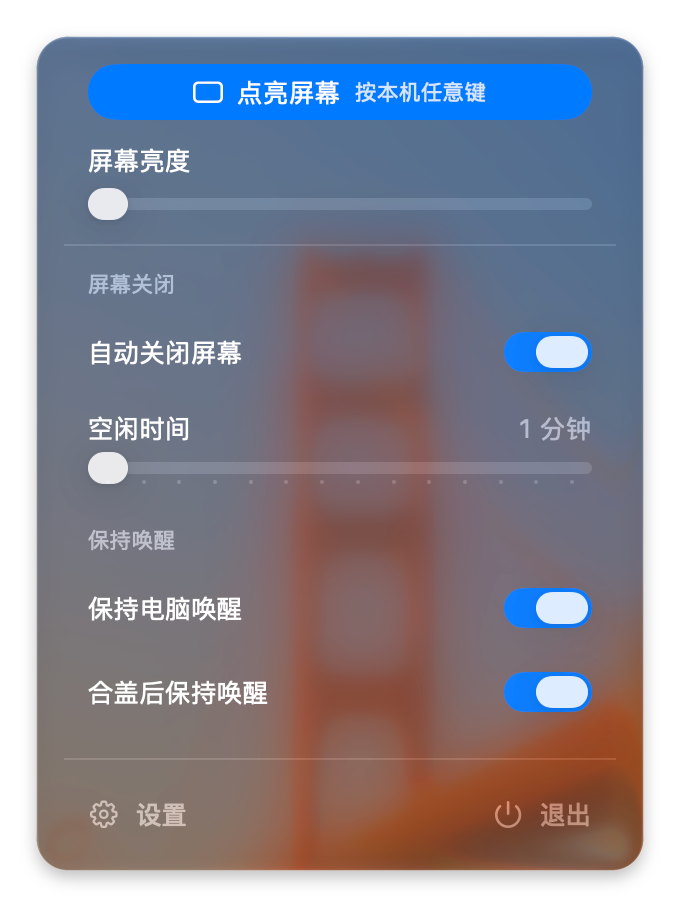
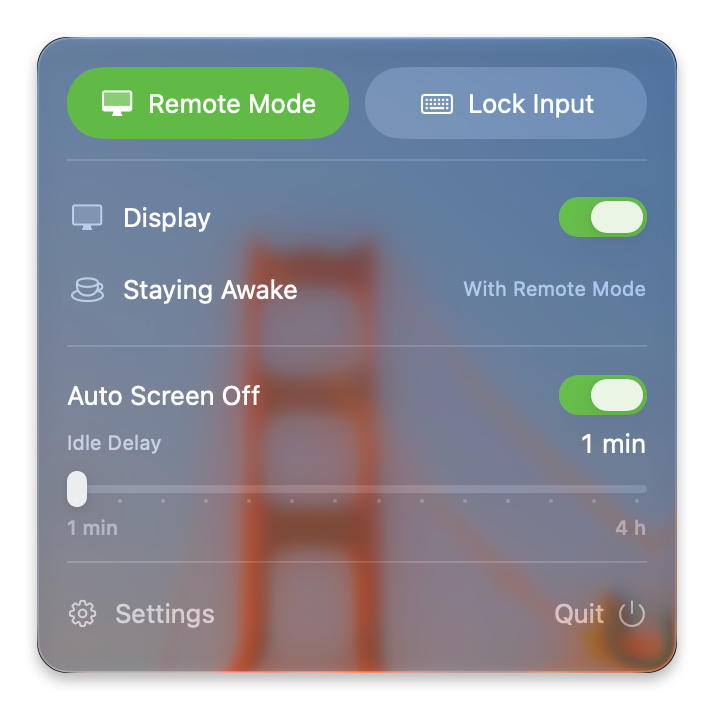
📝 docs(readme): 菜单栏截图更新为 1.2.1 界面
旧图停留在中文旧版菜单栏，双操作布局、屏幕开关行与英文界面都没有体现。

按原有素材规格处理：圆角 30px、四周留白 37px、阴影 14px 模糊下移 7px。半径由
左上角对角线实测反推——壁纸到 d=8 为止，窗口自身描边在那里，半透明主体从 d=10
开始，据此 R≈30px；取小了四角会残留一段壁纸弧线。规格已记入 Docs。

diff --git a/Docs/development.md b/Docs/development.md
@@ -115,6 +115,19 @@ read the current interface language to find their own. Switching writes the `App
 default and takes effect on restart; `AppLanguage.restart()` relaunches through the normal quit path so
 brightness, input lock and lid settings are restored first.
 
+## README Screenshots
+
+`Docs/assets/readme/menu-bar-{light,dark}.png` are the two menu-bar shots both READMEs share, one per
+appearance. Capture the popover at @2x with the wallpaper still showing through its rounded corners,
+then mask it: 30 px corner radius, 37 px of padding on every side, and a drop shadow of 14 px blur
+offset 7 px downward at 28 % black, which is what the earlier assets used.
+
+The radius is measured, not guessed. Scan the diagonal inward from the top-left corner: the wallpaper
+runs to about d = 8, where the window's own one-pixel border sits, and the translucent body starts at
+d = 10. With the corner's nearest point at R(√2 − 1) from the origin, that puts R at roughly 30 px.
+Check the output by confirming no wallpaper survives in any corner — too small a radius leaves a
+visible arc of it, which is the failure this measurement exists to avoid.
+
 ## Settings Layout Verification
 
 The four native toolbar tabs are ordered Remote, Feature, General, About: remote work is the main
